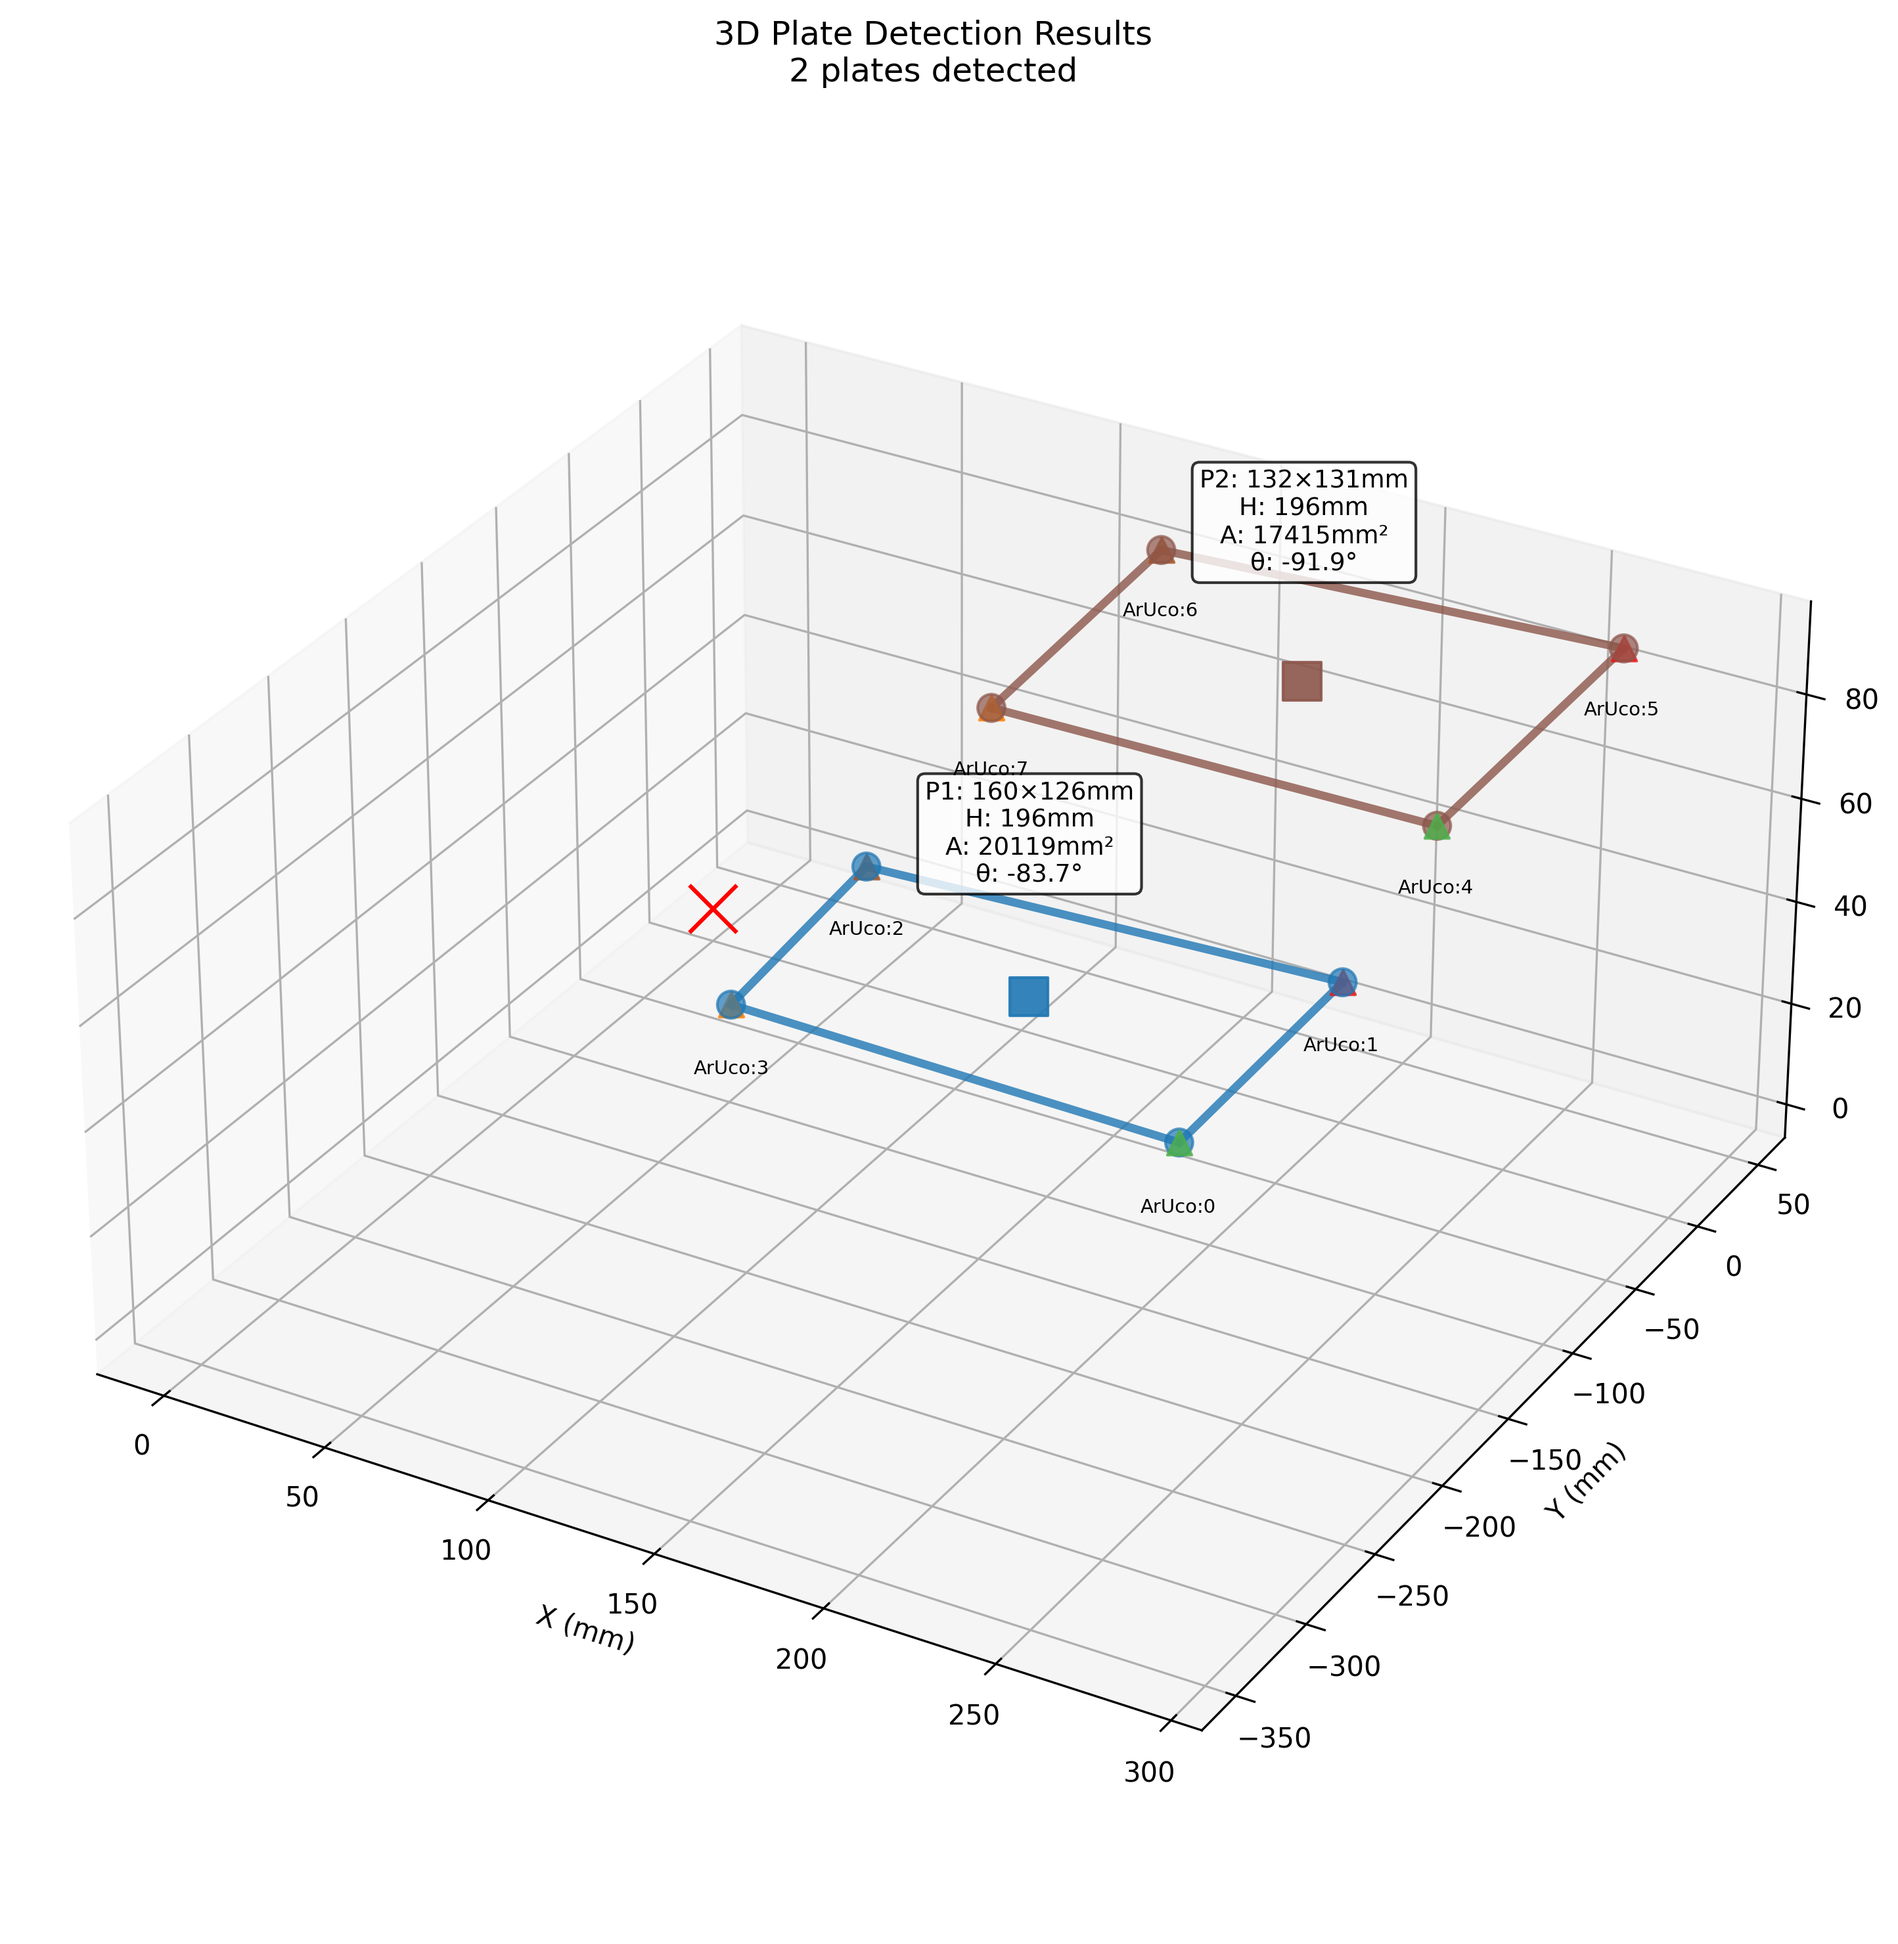
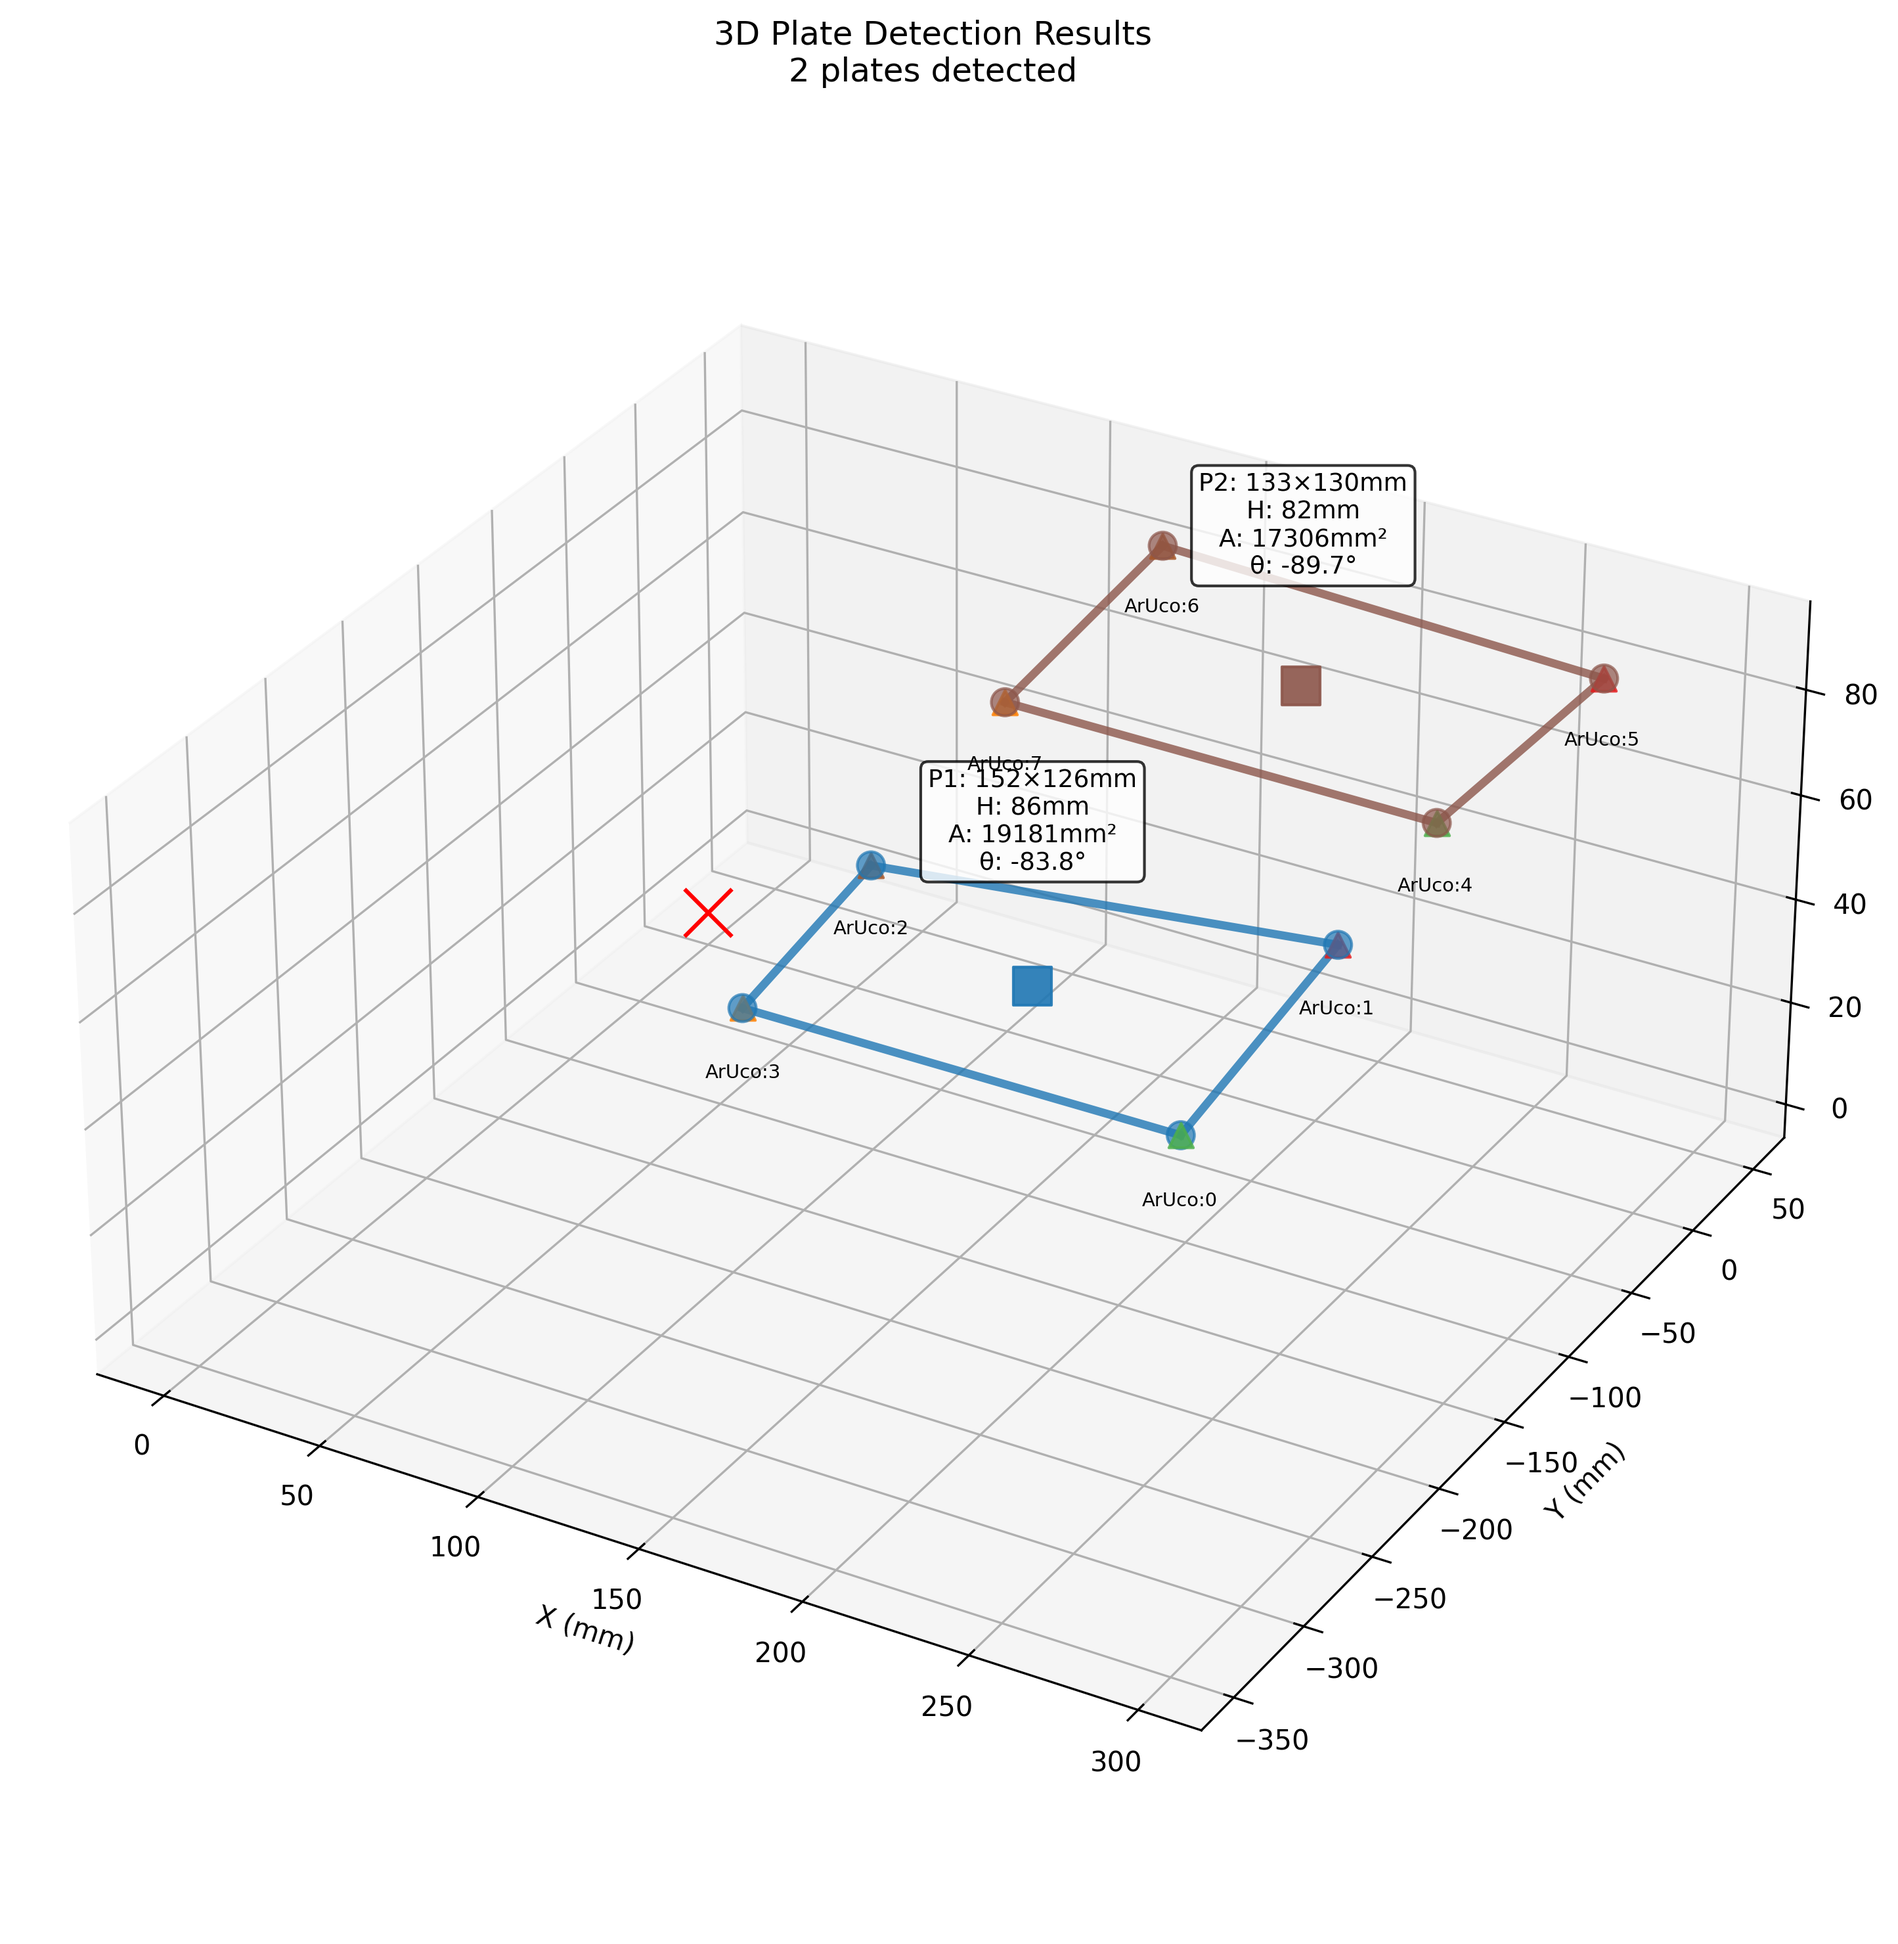
move objects

diff --git a/Arm_Control/SCARA.py b/Arm_Control/SCARA.py
@@ -35,8 +35,9 @@ def is_connected():
 RIGHT_HANDED_MODE = True
 
 HOME_FEEDRATE = 3000
-MAX_FEEDRATE = 20000
+MAX_FEEDRATE = 10000
 MAX_ACC = 500
+SLOW_DIST = 10
 
 PULSE_J1 = 88.889
 PULSE_J2 = 88.889
@@ -772,9 +773,15 @@ def suck_object(x: float, y: float, z: float, f: float = 3000,
         
         # 4. Move up to maximum height
         print("Moving to maximum height...")
-        quick(x, y, LIMIT_J3_MAX, f=10000,
+        quick_suction(x, y, suction_z + SLOW_DIST, f=1000,
+              maintain_extension_direction=maintain_extension_direction,
+              extension_angle=extension_angle)
+        quick_suction(x, y, LIMIT_J3_MAX + EE2CUP_Z_OFFSET - SLOW_DIST, f=5000,
                      maintain_extension_direction=maintain_extension_direction, 
                      extension_angle=extension_angle)
+        quick_suction(x, y, LIMIT_J3_MAX + EE2CUP_Z_OFFSET, f=1000,
+              maintain_extension_direction=maintain_extension_direction,
+              extension_angle=extension_angle)
         
         print(f"Object sucked successfully at ({x:.1f}, {y:.1f}, {z:.1f})")
         print(f"Moved to maximum height Z={LIMIT_J3_MAX}")
@@ -804,7 +811,6 @@ def release_object(x: float, y: float, z: float, f: float = 3000,
     global CUR_X, CUR_Y, CUR_Z
 
     try:
-        suction_trigger(False)
 
         approach_z = z + 50  # 10mm above target
         quick_suction(x, y, approach_z, f=5000,
@@ -824,7 +830,7 @@ def release_object(x: float, y: float, z: float, f: float = 3000,
         quick_suction(x, y, release_z, f=f // 2,  # Slower approach
                       maintain_extension_direction=maintain_extension_direction,
                       extension_angle=extension_angle)
-        time.sleep(2)
+        time.sleep(10)
 
         # 3. Activate suction
         print("Deactivating suction...")
@@ -833,9 +839,17 @@ def release_object(x: float, y: float, z: float, f: float = 3000,
 
         # 4. Move up to maximum height
         print("Moving to maximum height...")
-        quick(x, y, LIMIT_J3_MAX, f=10000,
+        quick_suction(x, y, release_z + SLOW_DIST, f=1000,
+                      maintain_extension_direction=maintain_extension_direction,
+                      extension_angle=extension_angle)
+        time.sleep(0.1)
+        quick_suction(x, y, LIMIT_J3_MAX + EE2CUP_Z_OFFSET - SLOW_DIST, f=5000,
               maintain_extension_direction=maintain_extension_direction,
               extension_angle=extension_angle)
+        time.sleep(0.1)
+        quick_suction(x, y, LIMIT_J3_MAX + EE2CUP_Z_OFFSET, f=1000,
+                      maintain_extension_direction=maintain_extension_direction,
+                      extension_angle=extension_angle)
 
         print(f"Object released successfully at ({x:.1f}, {y:.1f}, {z:.1f})")
         print(f"Moved to maximum height Z={LIMIT_J3_MAX}")
@@ -862,7 +876,7 @@ def calibrate():
     
     set_steps_per_unit(PULSE_J1, PULSE_J2, PULSE_J3, PULSE_J4,PULSE_J5, PULSE_J6)
     set_home_dir(1,-1,1,1,1,1)
-    set_home_order(0,1,2,3,4,5)
+    set_home_order(2,1,0,3,4,5)
     set_home_feedrate(HOME_FEEDRATE,HOME_FEEDRATE,HOME_FEEDRATE,HOME_FEEDRATE,600,600)
     set_axis_dir(1,-1,-1,1,1,1)
     set_max_feedrate(MAX_FEEDRATE,MAX_FEEDRATE,MAX_FEEDRATE,MAX_FEEDRATE,600,600)

diff --git a/object_mover.py b/object_mover.py
@@ -21,7 +21,7 @@ import math
 # Try to import SCARA control
 try:
     sys.path.append(str(Path(__file__).parent / "Arm_Control"))
-    from SCARA import quick, quick_suction, release_object, suck_object, get_camera_position, get_suction_cup_position
+    from SCARA import *
     SCARA_AVAILABLE = True
 except ImportError:
     print("⚠ SCARA control not available - running in simulation mode")
@@ -288,7 +288,7 @@ class ObjectMover:
         # Calculate destination position (center of destination plate)
         dest_x = dest_plate_data["center"]["x"]
         dest_y = dest_plate_data["center"]["y"]
-        dest_z = dest_plate_data["height"] + 10  # 10mm above plate surface
+        dest_z = dest_plate_data["height"] + 50
         
         if SCARA_AVAILABLE:
             try:
@@ -302,6 +302,8 @@ class ObjectMover:
                 if success:
                     # Move to destination and release
                     print("   Moving to destination...")
+                    quick_suction(dest_x, dest_y, LIMIT_J3_MAX + EE2CUP_Z_OFFSET)
+                    time.sleep(2)
                     release_object(dest_x, dest_y, dest_z)
                     print("   ✅ Object moved successfully")
                 else:
@@ -407,3 +409,4 @@ def main():
 
 if __name__ == "__main__":
     main()
+

diff --git a/Detection_Models/aruco_plate_detector.py b/Detection_Models/aruco_plate_detector.py
@@ -32,7 +32,7 @@ class PlateDefinition:
     corners_arm_coords: List[Tuple[float, float, float]]  # 4 corners in arm coordinates
     center_arm_coords: Tuple[float, float, float]  # Plate center in arm coordinates
     dimensions: Tuple[float, float]  # Width and length in mm
-    height_mm: float  # Plate height (average depth at markers)
+    height_mm: float  # Plate height
     area_mm2: float  # Plate surface area
     orientation_deg: float  # Plate orientation relative to arm X-axis
 
@@ -208,7 +208,7 @@ class ArUcoPlateDetector:
             area_mm2 = width_mm * length_mm
             
             # Calculate height (average depth at markers)
-            height_mm = np.mean([marker.depth_mm for marker in markers])
+            height_mm = np.mean([marker.arm_coords[2] for marker in markers])
             
             # Calculate orientation relative to arm X-axis
             orientation_deg = self._calculate_plate_orientation(corners_arm_coords)
